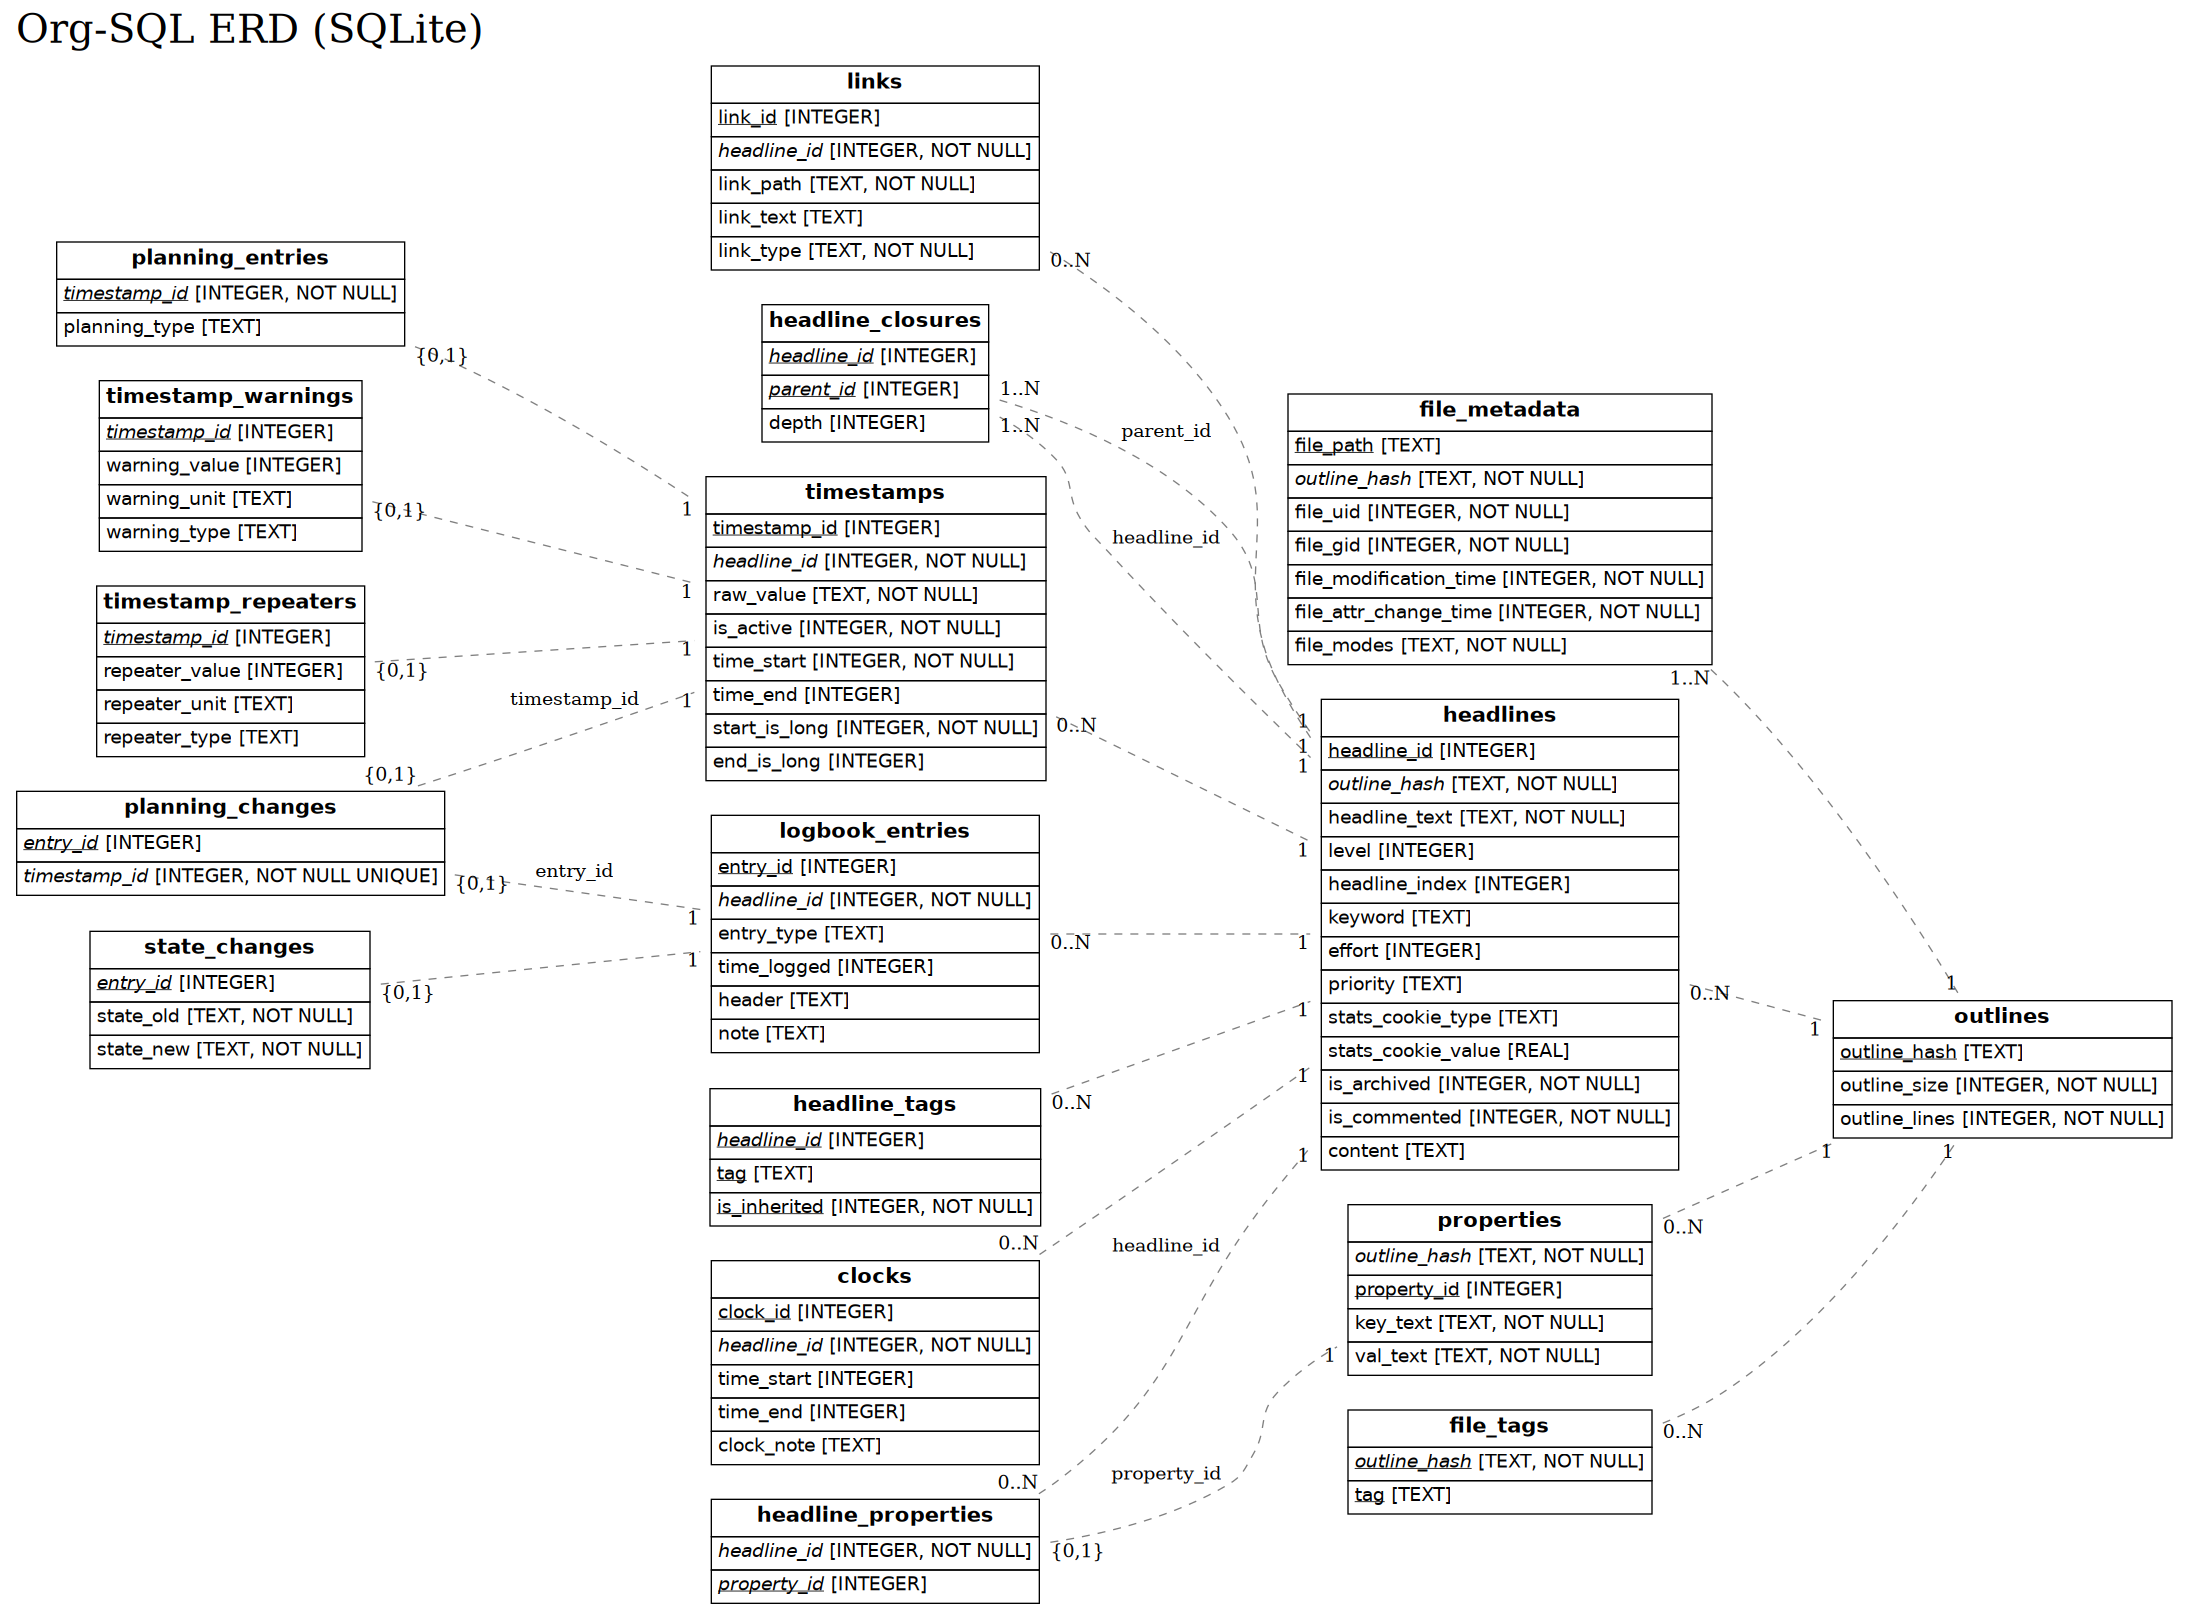
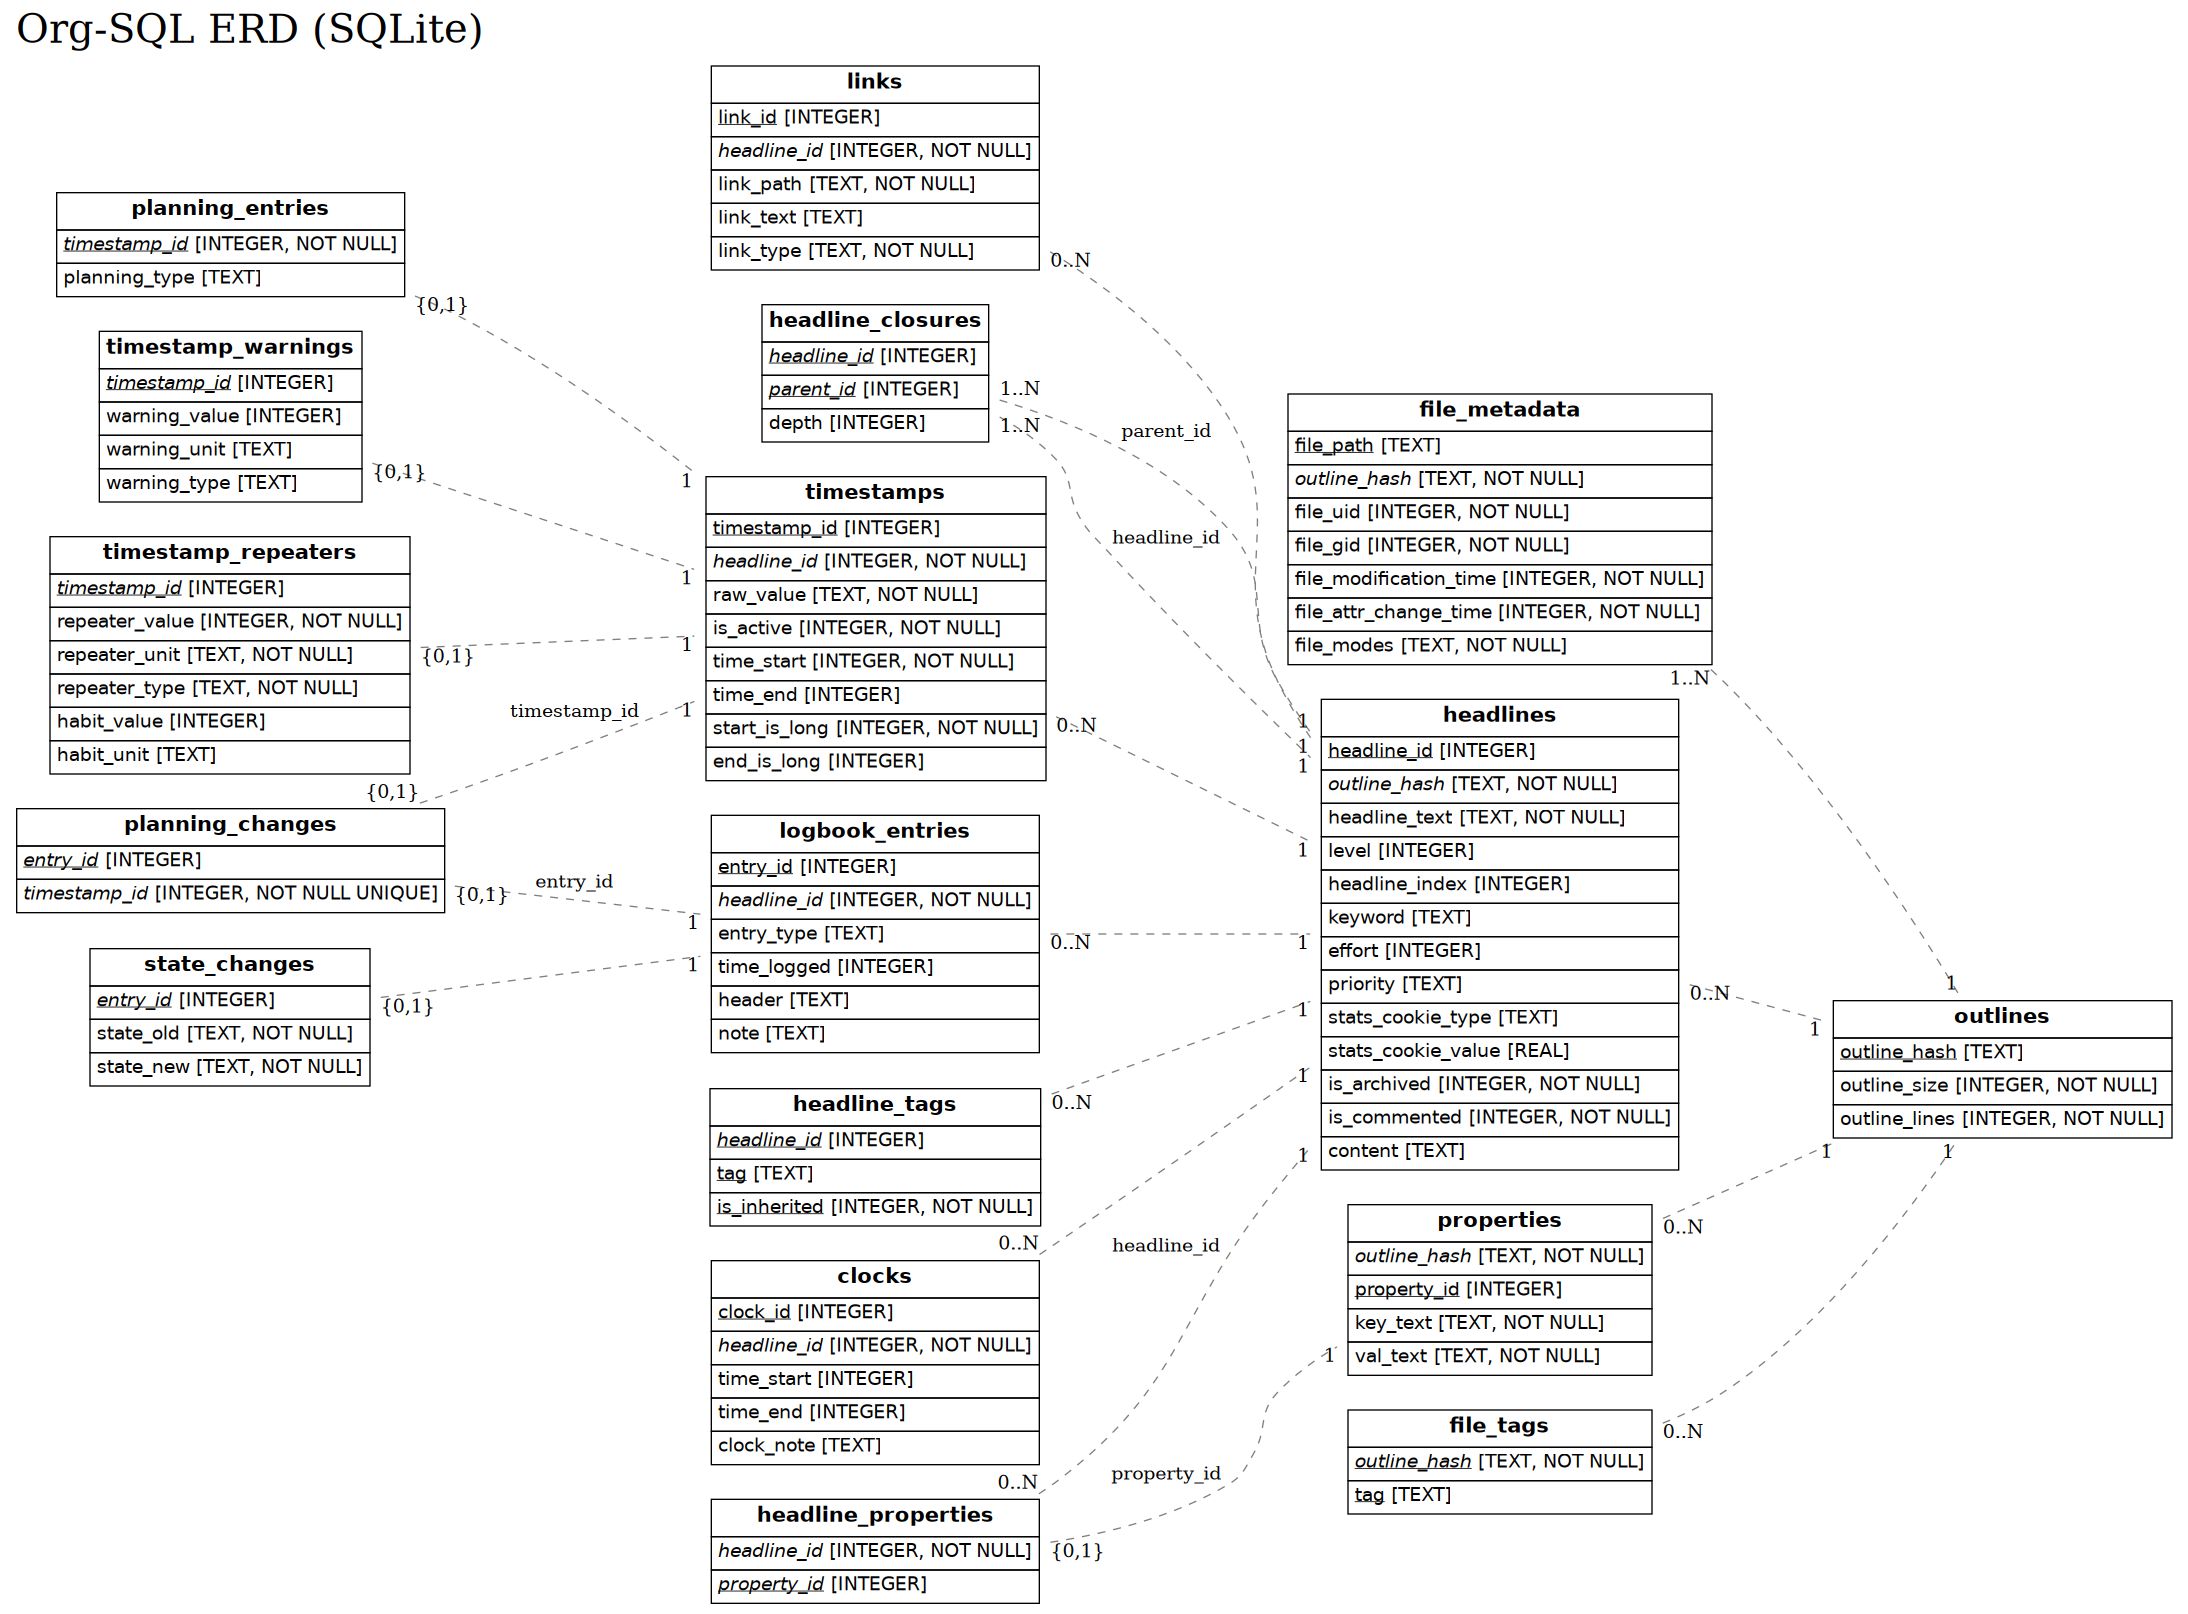
ADD habits to timestamp_repeaters

Changed region(s): [[0.0, 0.1239, 0.2797, 0.6815], [0.2486, 0.4337, 0.2797, 0.4647]]

diff --git a/doc/table-descriptions.md b/doc/table-descriptions.md
@@ -82,7 +82,7 @@ Each row stores the warning component for a timestamp.
 
 ## timestamp_repeaters
 
-Each row stores the repeater component for a timestamp.
+Each row stores the repeater component for a timestamp. If the repeater also has a habit appended to it, this will be stored as well.
 
 | Column | Description |
 |  -  |  -  |
@@ -90,6 +90,8 @@ Each row stores the repeater component for a timestamp.
 | repeater_value | shift of this repeater |
 | repeater_unit | unit of this repeater (`hour`, `day`, `week`, `month`, or `year`) |
 | repeater_type | type of this repeater (`catch-up`, `restart`, or `cumulate`) |
+| habit_value | shift of this repeater's habit |
+| habit_unit | unit of this repeaters habit (`hour`, `day`, `week`, `month`, or `year`) |
 
 ## planning_entries
 
